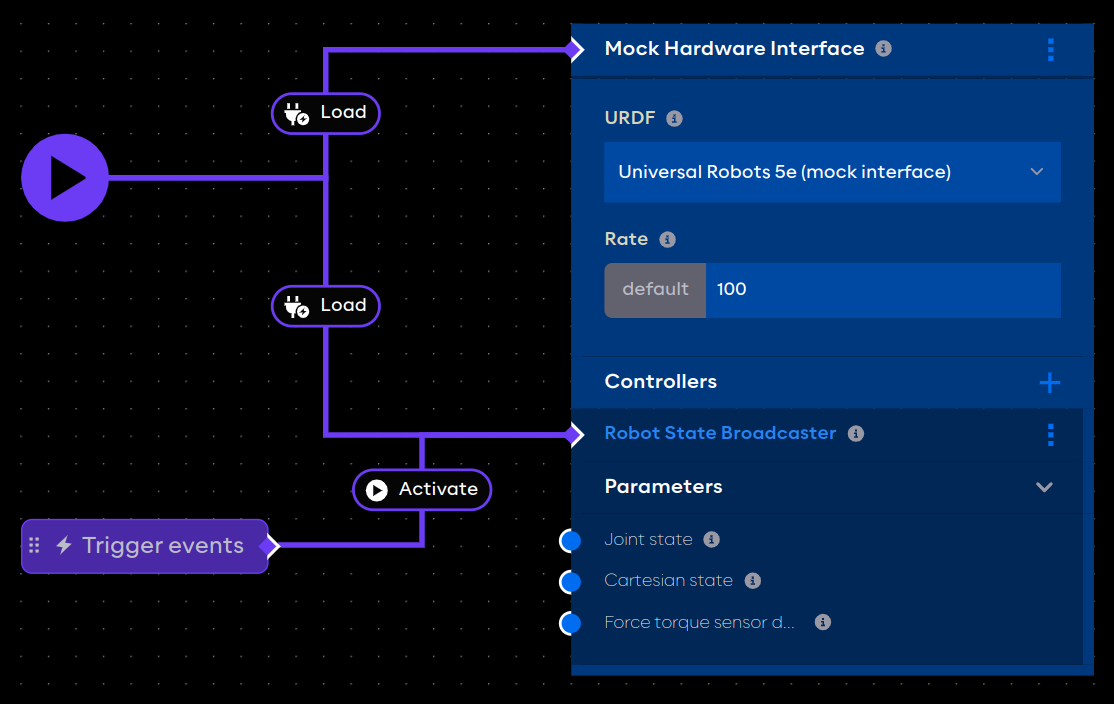
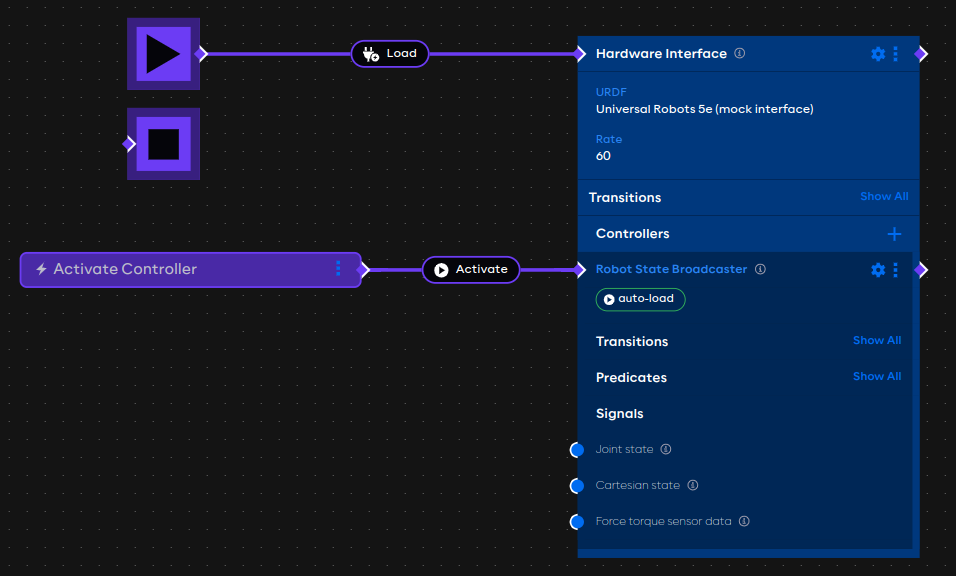
docs: update hardware example (#209)

diff --git a/docs/docs/getting-started/04-examples/03-mock-hardware-example.md b/docs/docs/getting-started/04-examples/03-mock-hardware-example.md
@@ -9,12 +9,12 @@ sidebar_position: 3
 This example uses an additional Universal Robots collection package, which includes drivers for communicating with
 UR robots and the example URDF content used to visualize the robot arm.
 
-Use AICA Core v3.1.1 together with the `collections/ur-collection` package at version v3.0.5 to reproduce this example.
+Use AICA Core v4.2.0 together with the `collections/ur-collection` package at version v4.1.0 to reproduce this example.
 
 ## URDF Hardware Manager
 
-After starting the application container, open the Hardware tab of the Developer
-Interface ([localhost:8080/dev/hardware](http://localhost:8080/dev/hardware)). This page shows a table of available URDF
+After starting AICA Studio, open the Hardware Manager 
+([localhost:8080/studio/hardware](http://localhost:8080/studio/hardware)). This page shows a table of available URDF
 files in the container database with a name and a description.
 
 AICA hardware collections include example URDFs, which are shown on the table with a pad-lock icon indicating that they
@@ -27,17 +27,17 @@ appear on the right side of the page.
 ```xml title="Universal Robots 5e (mock interface)"
 <?xml version="1.0" ?>
 <robot name="ur5e">
-    <ros2_control name="UniversalRobotsInterface" type="system">
+    <ros2_control name="ur5e_mock" type="system">
         <hardware>
             #highlight-next-line
-            <plugin>robot_interface/MockInterface</plugin>
+            <plugin>aica_core_interfaces/MockInterface</plugin>
         </hardware>
         ...
     </ros2_control>
 </robot>
 ```
 
-The selected URDF specifies the hardware plugin `robot_interface/MockInterface`. This is a generic AICA plugin that
+The selected URDF specifies the hardware plugin `aica_core_interfaces/MockInterface`. This is a generic AICA plugin that
 mocks real robot hardware by perfectly following all commands and reflecting back the robot state.
 
 The mock URDF will be used to demonstrate the hardware interface block in AICA applications.
@@ -51,38 +51,49 @@ more context.
 
 ## Setting up the application
 
-Go to the Editor page using the top navigation bar or at [localhost:8080/dev/editor](http://localhost:8080/dev/editor)
-and create a new application.
+Go to the Editor page using the top navigation bar or at
+[localhost:8080/studio/editor](http://localhost:8080/studio/editor) and create a new application.
 
 Enter the following YAML and generate the graph.
 
 ```yaml
+schema: 2-0-2
+dependencies:
+  core: v4.2.0
 on_start:
   load:
-    - hardware: mock_hardware
-    - controller: robot_state_broadcaster
-      hardware: mock_hardware
-buttons:
-  activate_controller:
-    position:
-      x: 0
-      y: 280
-    on_click:
-      switch_controllers:
-        hardware: mock_hardware
-        activate: robot_state_broadcaster
-components: {}
+    hardware: mock_hardware
 hardware:
   mock_hardware:
-    display_name: Mock Hardware Interface
-    position:
-      x: 400
-      y: -80
+    display_name: Hardware Interface
     urdf: Universal Robots 5e (mock interface)
     rate: 60
+    events:
+      transitions:
+        on_load:
+          load:
+            controller: robot_state_broadcaster
+            hardware: mock_hardware
     controllers:
       robot_state_broadcaster:
-        plugin: modulo_controllers/RobotStateBroadcaster
+        plugin: aica_core_controllers/RobotStateBroadcaster
+graph:
+  positions:
+    buttons:
+      button:
+        x: -120
+        y: 260
+    hardware:
+      mock_hardware:
+        x: 500
+        y: -20
+  buttons:
+    button:
+      display_name: Activate Controller
+      on_click:
+        switch_controllers:
+          hardware: mock_hardware
+          activate: robot_state_broadcaster
 ```
 
 The application graph should show a hardware interface with a controller and an event trigger.
@@ -91,26 +102,42 @@ The application graph should show a hardware interface with a controller and an 
 
 ## The example explained
 
-Starting from the bottom, the top-level `hardware` field defines the hardware interfaces in an application.
-
-In this case, there is one hardware interface called `mock_hardware`.
+The application begins with the `on_start` directive to list the initial application events. In this case, the only
+event that occurs on start is to load the `mock_hardware` hardware interface.
 
 ```yaml
+on_start:
+  load:
+    hardware: mock_hardware
+```
+
+Moving down the application, the top-level `hardware` field defines the hardware interfaces in an application. In this
+case, there is one hardware interface called `mock_hardware`.
+
+```yaml
+hardware:
   mock_hardware:
-    display_name: Mock Hardware Interface
-    position:
-      x: 400
-      y: -80
+    display_name: Hardware Interface
     urdf: Universal Robots 5e (mock interface)
+    rate: 60
+    events:
+      transitions:
+        on_load:
+          load:
+            controller: robot_state_broadcaster
+            hardware: mock_hardware
     controllers:
       robot_state_broadcaster:
-        plugin: modulo_controllers/RobotStateBroadcaster
+        plugin: aica_core_controllers/RobotStateBroadcaster
 ```
 
 The `urdf` field specifies the `Universal Robots 5e (mock interface)` URDF as identified on the hardware manager page.
 
+The `events` field lists events that occur on state transitions of the hardware interface. In this case, the `on_load`
+transition is used to load a controller once the ardware interface is loaded.
+
 The `controllers` field lists the controllers associated with the hardware interface. In this example, the only
-controller is the `modulo_controllers/RobotStateBroadcaster`, which is a generic AICA controller that broadcasts the
+controller is the `aica_core_controllers/RobotStateBroadcaster`, which is a generic AICA controller that broadcasts the
 robot joint states and transforms.
 
 :::tip
@@ -120,53 +147,44 @@ the [YAML application syntax](../../reference/03-yaml-syntax.md) reference page.
 
 :::
 
-Moving up the application, the `components` field is left empty because there are no components in this example.
+At the bottom, the application defines positions of components in the graph and event trigger buttons under the
+top-level `graph` field.
 
 ```yaml
-components: {}
+graph:
+  positions:
+    buttons:
+      button:
+        x: -120
+        y: 260
+    hardware:
+      mock_hardware:
+        x: 500
+        y: -20
+  buttons:
+    button:
+      display_name: Activate Controller
+      on_click:
+        switch_controllers:
+          hardware: mock_hardware
+          activate: robot_state_broadcaster
 ```
 
-Above that, the application defines an event trigger button under the top-level `buttons` field.
-
-```yaml
-buttons:
-  activate_controller:
-    position:
-      x: 0
-      y: 280
-    on_click:
-      switch_controllers:
-        hardware: mock_hardware
-        activate: robot_state_broadcaster
-```
-
-The `on_click` field defines the application events that are triggered with the event button is pressed. In this case,
-it triggers the `switch_controllers` event which is used to activate the `robot_state_broadcaster` controller on the
-`mock_hardware` interface.
-
-The application begins with the `on_start` directive to list the initial application events.
-
-```yaml
-on_start:
-  load:
-    - hardware: mock_hardware
-    - controller: robot_state_broadcaster
-      hardware: mock_hardware
-```
-
-In this case, the first event that occurs in the application is to load the `mock_hardware` hardware interface.
-After that, the `robot_state_broadcaster` controller is loaded.
+The `on_click` field of buttons defines the application events that are triggered with the event button is pressed. In
+this case, it triggers the `switch_controllers` event which is used to activate the `robot_state_broadcaster` controller
+on the `mock_hardware` interface.
 
 ## Run the application
 
 Putting it all together, pressing Play on this application should load the mock hardware interface and load the
 broadcaster controller. When the trigger button is pressed in the graph editor, the broadcaster will be activated.
 
-:::caution
+:::tip
 
-The loading behavior of hardware interfaces and controllers may change in future versions to simplify "auto-load"
-procedures similar
-to [component auto-lifecycle events](../../concepts/05-building-blocks/03-components.md#auto-lifecycle-events)
+Controllers can also be "auto-activated", similar to the procedure in the
+[previous example](./02-editor-example.md#auto-lifecycle-events). Try to modify this example by removing the trigger
+button and navigating to the controller settings to toggle the "auto-activate" behavior. Once the application is started
+again, the controller should now automatically be active.
 
 :::
 
